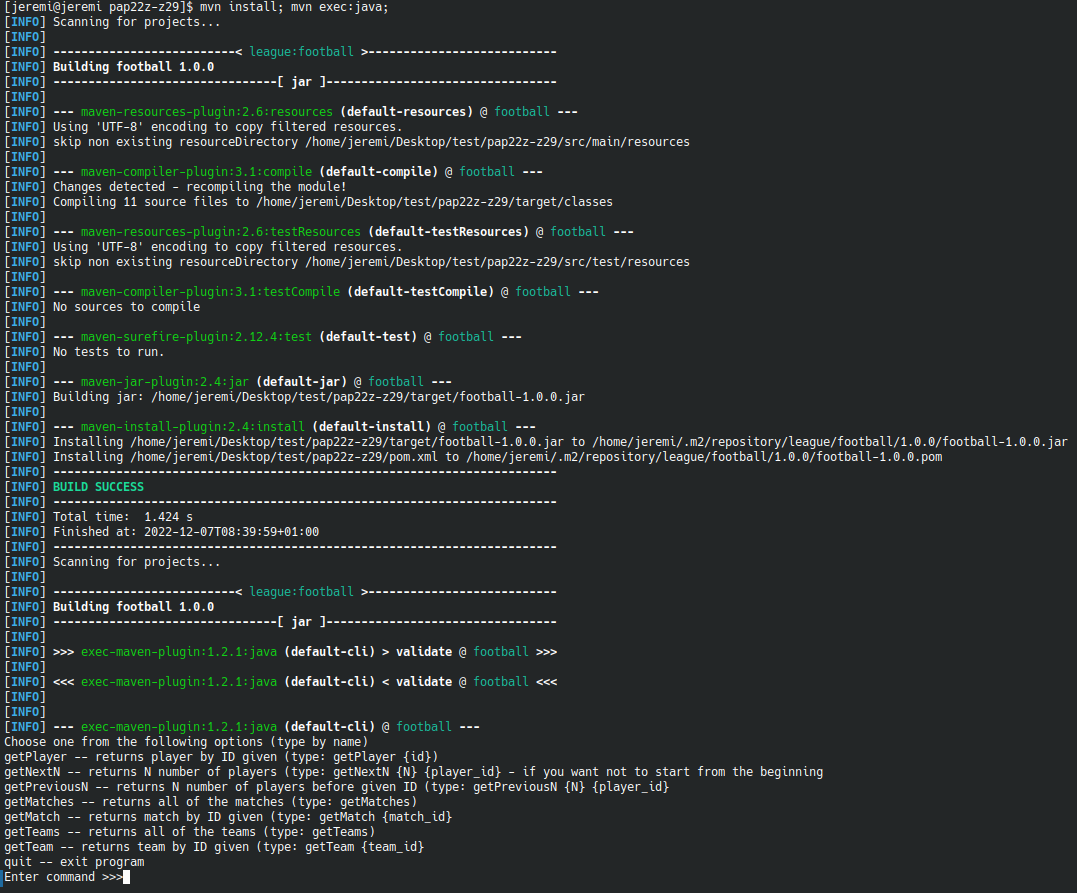
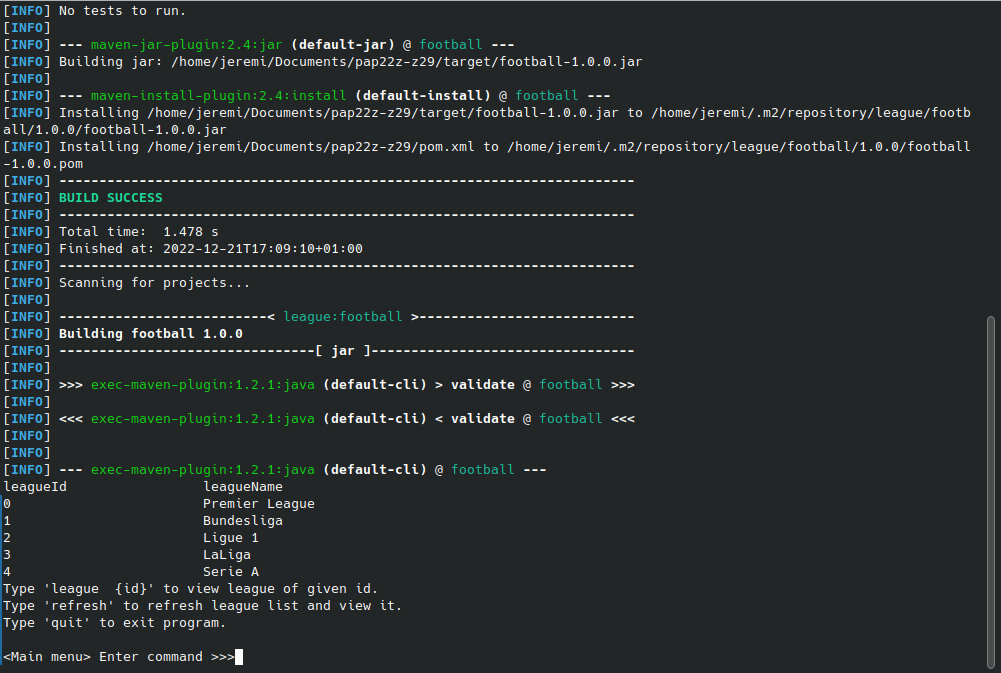
Instruction change

Changed region(s): [[0.0, 0.0, 1.0, 0.9985], [0.5884, 0.0624, 0.6194, 0.0936]]

diff --git a/README.md b/README.md
@@ -11,11 +11,10 @@ Następnie należy użyć oprogramowania Maven do skompilowania i uruchomienia a
 Po uruchomieniu powyższej komendy w konsoli powinny pokazać się komunikaty Maven'a o pomyślnej instalacji i uruchomieniu, oraz instrukcja wyświetlona przez aplikacje.
 ![enter image description here](img/maven_install_exec_sreenshot.png)
 
-Teraz można na przykład użyć komendy getTeams, aby wyświetlić nazwy wszystkich drużyn znajdujących się w bazie danych:
+Teraz można na przykład użyć komendy "league 3", aby aplikacja pobrała z danych informacje o lidze o id 3, a następnie 
+ użyć komendy "getMatches" aby wyświetlić listę wszystkich meczy rozegranych do tej pory w tej lidze.
 
-    getMatches
-Teraz na ekranie powinna wyświetlić się aktualna lista drużyn.
-![enter image description here](img/getTeams_screenshot.png)
+![enter image description here](img/using_app.png)
 
 ## Autorzy
  - Paweł Rogóż
